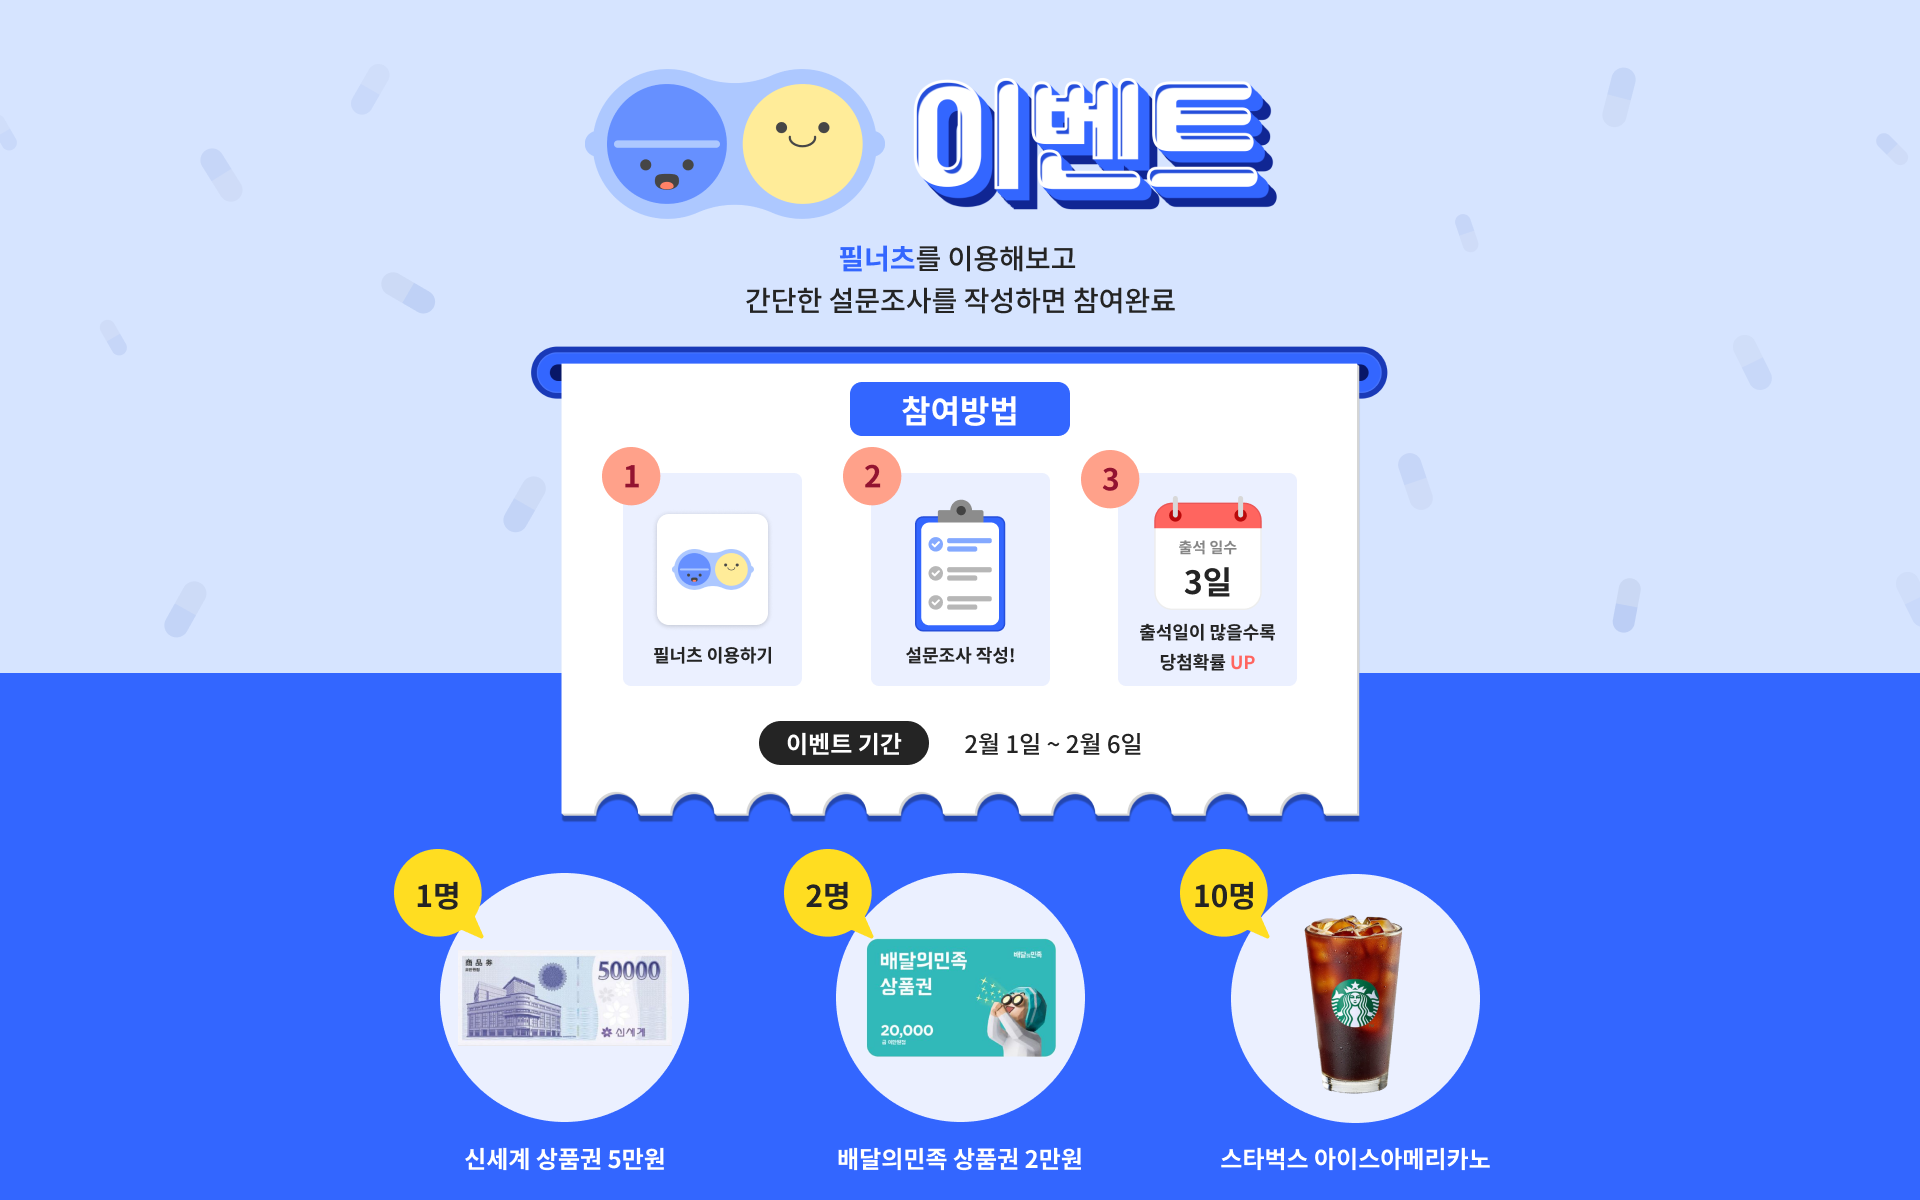
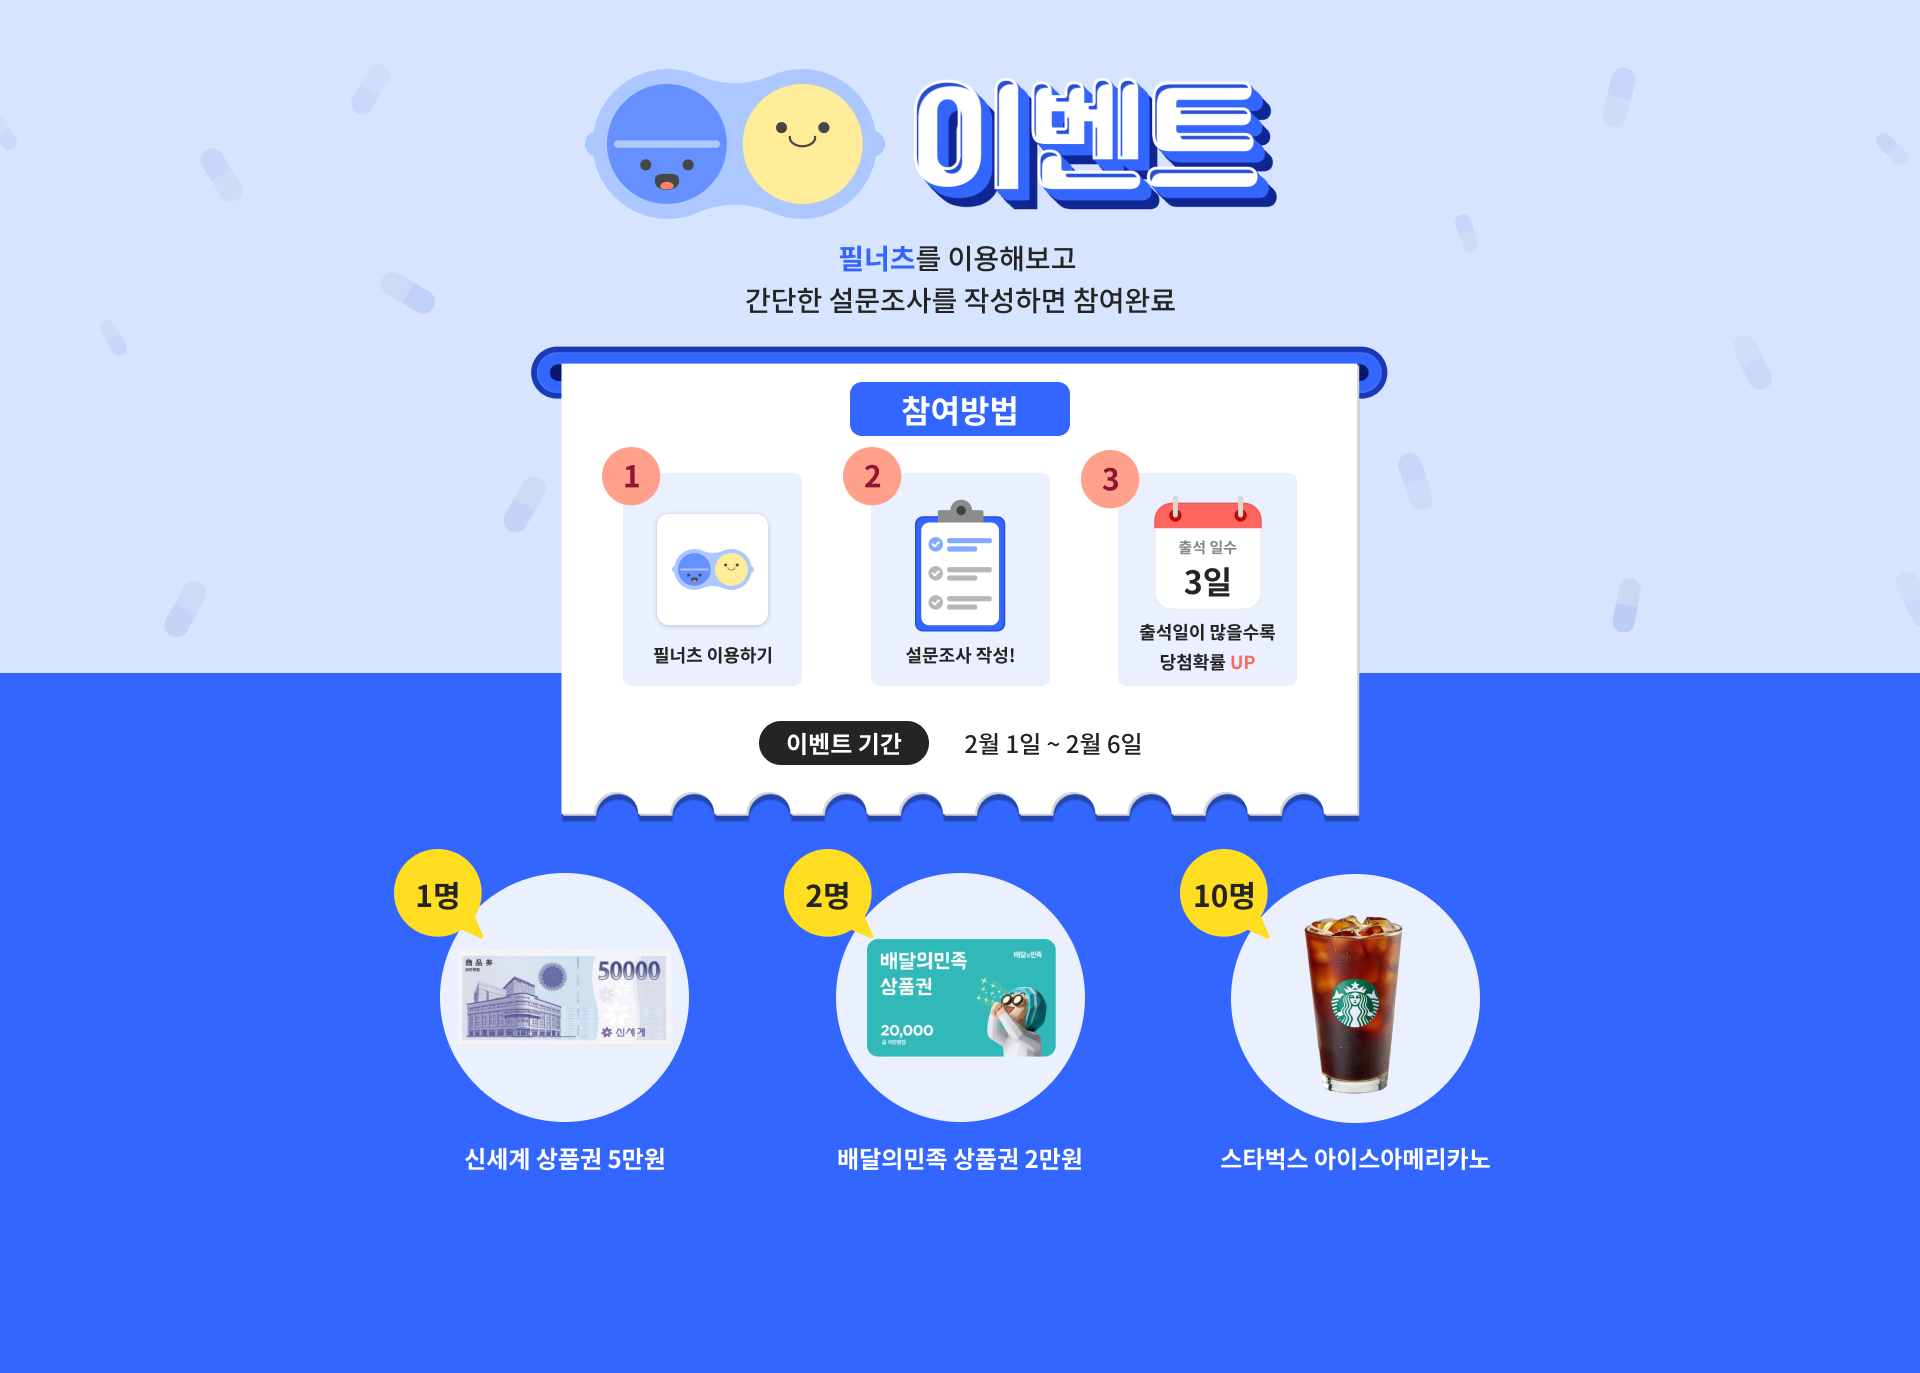
FEAT: [추가] 이벤트 페이지 버튼 구현

Changed region(s): [[0.1875, 0.0308, 0.7812, 0.9867], [0.6875, 0.4317, 1.0, 0.5858], [0.0, 0.4625, 0.3125, 0.5858]]

diff --git a/src/pages/main/FirstSection.jsx b/src/pages/main/FirstSection.jsx
@@ -9,9 +9,9 @@ const FirstSection = (props) => {
       <Wrapper>
         {scrollPoint >= 0 && (
           <MainContentShow>
-            약에 대한 검색과 비교
+            약에 대한 궁금증
             <br />
-            필너츠에서 도와드려요
+            <span>필너츠</span>에서 해결하세요!
           </MainContentShow>
         )}
         {/* <ImgWrap>
@@ -66,12 +66,17 @@ const slide = keyframes`
 
 const MainContentShow = styled.h1`
   @media screen and (max-width: 1700px) {
-    font-size: 40px;
-    line-height: 65px;
-    padding-bottom: 0vh;
+    font-size: 40px !important;
+    line-height: 65px !important;
+    padding-bottom: 0vh !important;
   }
   @media screen and (max-width: 1920px) {
-    padding-bottom: 10vh;
+    padding-bottom: 0vh;
+    font-size: 54px;
+    line-height: 70px;
+  }
+  span {
+    color: #3366ff;
   }
   width: 100%;
   font-weight: 700;
@@ -79,7 +84,7 @@ const MainContentShow = styled.h1`
   line-height: 87px;
   text-align: center;
   animation: ${show} 1s ease-out forwards;
-  padding-bottom: 150px;
+  padding-bottom: 5vh;
 `;
 
 const ImgWrap = styled.div`
@@ -93,10 +98,11 @@ const ImgWrap = styled.div`
 
 const ContentImg = styled.div`
   @media screen and (max-width: 1700px) {
-    background-size: 60%;
+    background-size: 65% !important;
+    background-position: top;
   }
   @media screen and (max-width: 1920px) {
-    background-size: 70%;
+    background-size: 85%;
     background-position: top;
   }
   background-image: url('/assets/image/메인 섹션1.png');
@@ -105,7 +111,7 @@ const ContentImg = styled.div`
   background-repeat: no-repeat;
   /* max-width: 100%;
   height: auto; */
-  width: 666px;
+  width: 1151px;
   /* background-color: aliceblue; */
   /* height: 0; */
   /* padding-top: calc(67.71%); */
@@ -114,8 +120,8 @@ const ContentImg = styled.div`
     no-repeat;
   padding-top: calc(451 / 666 * 100%); */
   /* calc (이미지 높이 ÷ 이미지 가로 × 100 %) */
-  max-height: 451px;
-  height: 67.71vw;
+  max-height: 749px;
+  height: 153.67vw;
   /* background-color: aliceblue; */
   /* aspect-ratio: auto 1 / 1; */
   /* display: flex; */

diff --git a/src/pages/Event.jsx b/src/pages/Event.jsx
@@ -8,32 +8,80 @@ const Event = () => {
 
   return (
     <Wrap>
-      <EventImg />
+      <EventImg>
+        <button
+          onClick={() =>
+            window.open(
+              'https://docs.google.com/forms/d/e/1FAIpQLSecVl62mf888KCfZ7RpNJ6gyEKiCLWoDGKbPpE7SPy4wPW2WQ/viewform'
+            )
+          }>
+          설문조사 작성하기
+        </button>
+      </EventImg>
     </Wrap>
   );
 };
 const Wrap = styled.div`
-  @media screen and (min-width: 2560px) {
-    height: 94.5vh;
-  }
-  @media screen and (max-width: 1700px) {
-    height: 94.5vh;
-  }
   width: 100%;
   min-width: 1024px;
-  height: 1200px;
-  min-height: 900px;
-  max-height: 170vh;
   background-color: #3366ff;
 `;
 const EventImg = styled.div`
-  width: 100%;
-  max-height: 1440px;
+  @media screen and (max-width: 1700px) {
+    width: 1024px;
+    height: 700px;
+  }
+  position: relative;
+  margin: auto;
+  width: 1920px;
   height: 100%;
+  max-height: 1373px;
+  height: 139.83vw;
+
   background-image: url('/assets/image/이벤트페이지.png');
   background-position: top;
   background-repeat: no-repeat;
   background-size: contain;
+  div {
+    /* position: absolute;
+    bottom: 0;
+    margin: auto; */
+    z-index: 999;
+    width: 420px;
+    height: 80px;
+    margin: auto;
+    background-image: url('/assets/image/설문조사이동.png');
+    background-position: center;
+    background-repeat: no-repeat;
+    background-size: cover;
+    /* calc (이미지 높이 ÷ 이미지 가로 × 100 %) */
+    /* max-height: 80px;
+    height: 5.25vw;
+    border-radius: 12px; */
+  }
+  button {
+    @media screen and (max-width: 1700px) {
+      top: 90%;
+      width: 280px;
+      height: 50px;
+      font-size: 20px;
+    }
+    position: absolute;
+    top: 90%;
+    left: 50%;
+    transform: translateX(-50%);
+    display: flex;
+    justify-content: center;
+    align-items: center;
+    width: 420px;
+    height: 80px;
+    font-weight: 700;
+    font-size: 28px;
+    color: #ffffff;
+    border: 0;
+    border-radius: 12px;
+    background-color: #242424;
+  }
 `;
 
 export default Event;

diff --git a/src/pages/User.jsx b/src/pages/User.jsx
@@ -881,11 +881,12 @@ const NicknameInput = styled.div`
 
 const ProfileMsg = styled.div`
   @media screen and (max-width: 1700px) {
-    width: 150px;
+    width: 260px;
     font-size: 16px;
-    margin-top: 40px;
+    margin-top: 35px;
+    /* background-color: aqua; */
   }
-  width: 250px;
+  width: 220px;
   height: 72px;
   margin-top: 38px;
   font-size: 18px;
@@ -895,10 +896,12 @@ const ProfileMsg = styled.div`
 
 const CalenderWrap = styled.div`
   @media screen and (max-width: 1700px) {
-    width: 40%;
     margin-left: auto;
+    width: 100%;
+    margin-top: 5px;
   }
-  width: 40%;
+  /* background-color: aqua; */
+  width: 100%;
   display: flex;
   align-items: center;
   justify-content: flex-end;
